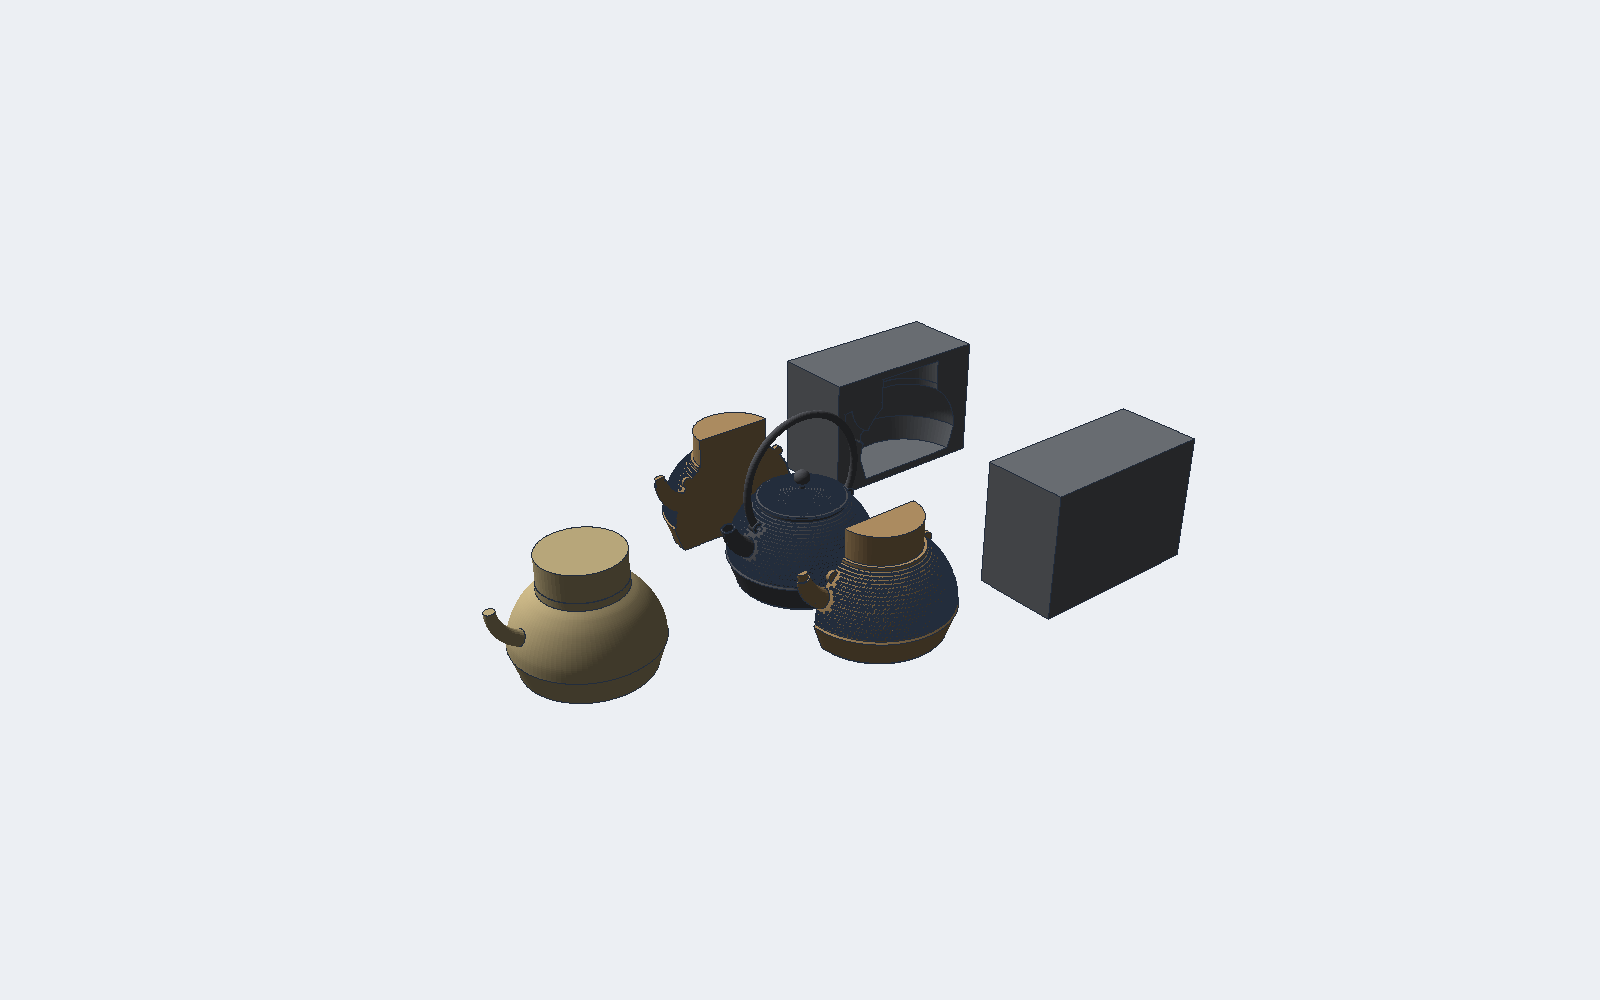
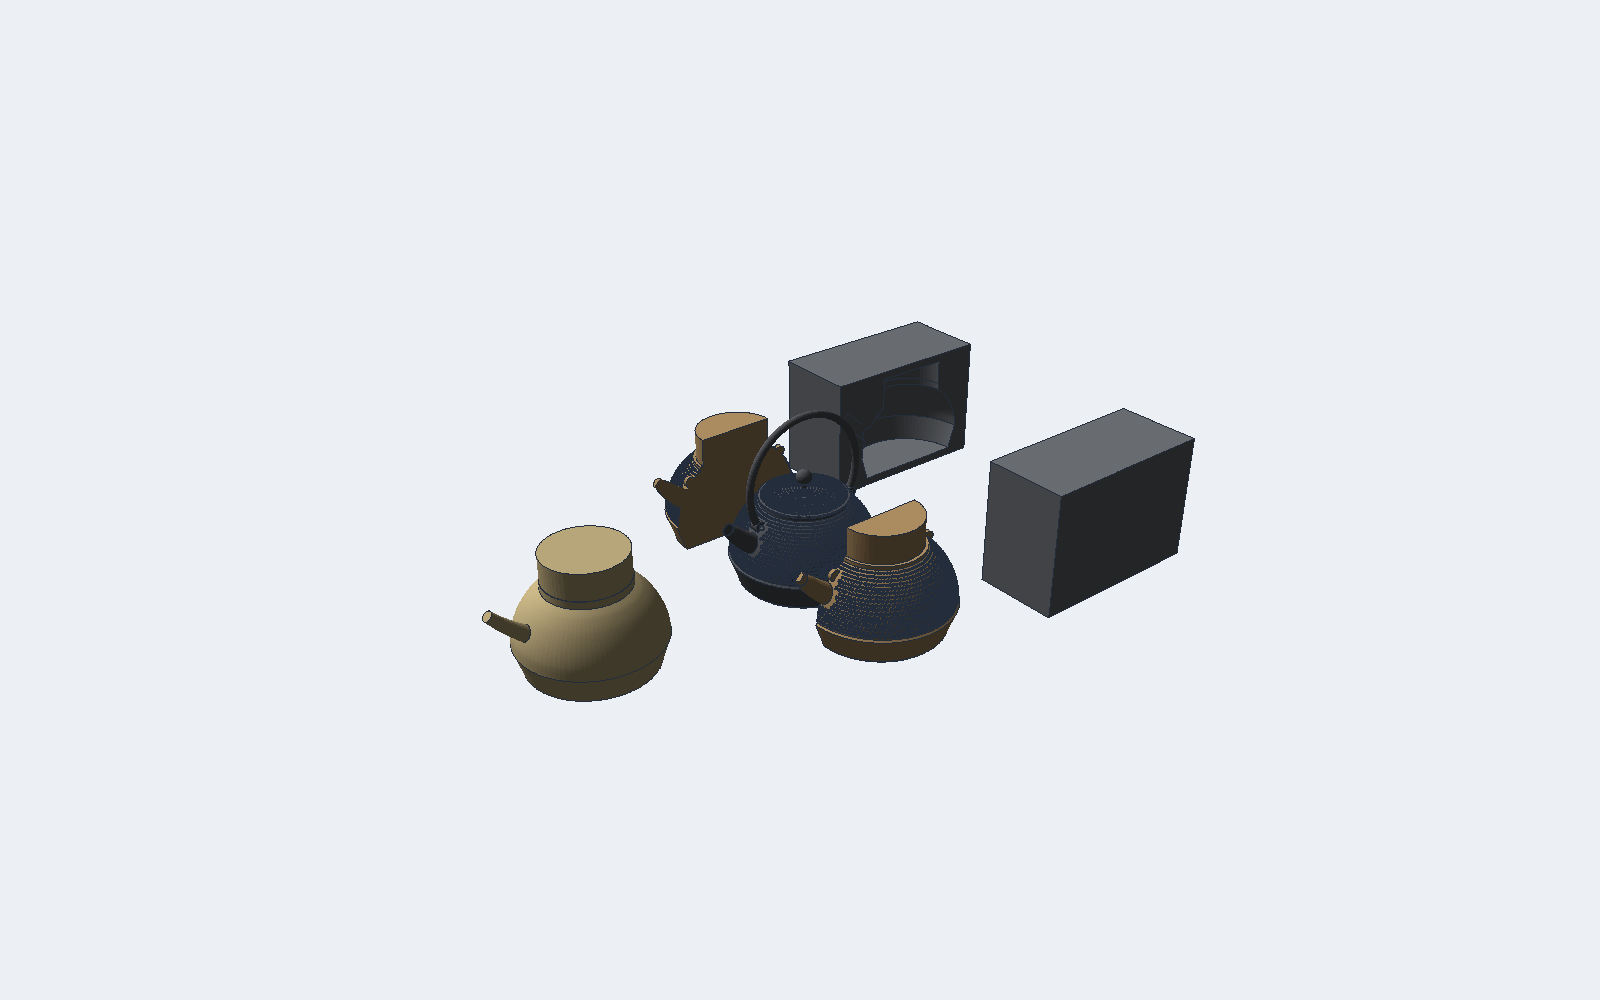
Kettle spout pours cleanly: a 48 degree rise and a thin lip
The spout rose 78 degrees at its tip, far past the 40 to 50 degree rule
in KETTLE.md, so the kettle had to tilt far and the water would run
down the outside. spout_path now takes the tip and its rise
(SPOUT_RISE_DEG = 48) and finds the arc through the start; its end
extensions are in millimetres, since the arc radius changed a lot.

Pipe gains a lip: over the last lip length of the path the outside
eases to the lip diameter, starting tangent to the taper, on a path
refined near the end. The kettle uses 8 mm down to 13.4 mm, a 0.8 mm
edge over the 11.8 mm bore at the tip, and the mold pattern shares the
same spout, so the casting gets the lip too.

Renders of the kettle samples are made again.

Claude-Session: https://claude.ai/code/session_01RS1w5bgEVMMrX9LStXCS5y

diff --git a/crates/anvil-feature/src/features/solid_extra.rs b/crates/anvil-feature/src/features/solid_extra.rs
@@ -98,6 +98,13 @@ pub struct PipeFeature {
     /// Diameter at the far end of the path. `0` keeps `diameter` all along.
     #[serde(default = "zero_expr")]
     pub end_diameter: String,
+    /// Length of a lip at the far end: over this last stretch of the path
+    /// the outside eases down to `lip_diameter`, starting tangent to the
+    /// taper. `0` means no lip. A spout pours cleanly from a thin lip.
+    #[serde(default = "zero_expr")]
+    pub lip_length: String,
+    #[serde(default = "zero_expr")]
+    pub lip_diameter: String,
 }
 
 fn zero_expr() -> String {
@@ -106,8 +113,39 @@ fn zero_expr() -> String {
 
 impl Default for PipeFeature {
     fn default() -> Self {
-        PipeFeature { path: 0, diameter: "4".into(), end_diameter: "0".into() }
+        PipeFeature {
+            path: 0,
+            diameter: "4".into(),
+            end_diameter: "0".into(),
+            lip_length: "0".into(),
+            lip_diameter: "0".into(),
+        }
     }
+}
+
+/// The path with extra points over its last `length`, `n` steps at least,
+/// so a lip there is smooth.
+fn refine_end(path: &[DVec3], length: f64, n: usize) -> Vec<DVec3> {
+    let mut out = vec![path[0]];
+    let total: f64 = path.windows(2).map(|w| (w[1] - w[0]).length()).sum();
+    let start = (total - length).max(0.0);
+    let step = length / n as f64;
+    let mut at = 0.0;
+    for w in path.windows(2) {
+        let seg = (w[1] - w[0]).length();
+        if at + seg > start && seg > step {
+            let k = (seg / step).ceil() as usize;
+            for i in 1..k {
+                let f = i as f64 / k as f64;
+                if at + seg * f > start {
+                    out.push(w[0].lerp(w[1], f));
+                }
+            }
+        }
+        out.push(w[1]);
+        at += seg;
+    }
+    out
 }
 
 #[typetag::serde(name = "pipe")]
@@ -123,6 +161,8 @@ impl Feature for PipeFeature {
             ParamSpec::feature_ref("path", "Path sketch", vec!["sketch"], self.path),
             ParamSpec::length("diameter", "Diameter", &self.diameter),
             ParamSpec::length("end_diameter", "Diameter at end (0 = same)", &self.end_diameter),
+            ParamSpec::length("lip_length", "Lip length (0 = none)", &self.lip_length),
+            ParamSpec::length("lip_diameter", "Lip diameter", &self.lip_diameter),
         ]
     }
     fn set_param(&mut self, name: &str, value: ParamValue) -> Result<(), String> {
@@ -130,6 +170,8 @@ impl Feature for PipeFeature {
             ("path", ParamValue::FeatureRef(i)) => self.path = i,
             ("diameter", ParamValue::Expr(s)) => self.diameter = s,
             ("end_diameter", ParamValue::Expr(s)) => self.end_diameter = s,
+            ("lip_length", ParamValue::Expr(s)) => self.lip_length = s,
+            ("lip_diameter", ParamValue::Expr(s)) => self.lip_diameter = s,
             (n, _) => return Err(format!("unknown parameter {n}")),
         }
         Ok(())
@@ -138,20 +180,40 @@ impl Feature for PipeFeature {
         let paths = ctx.paths_of(self.path)?;
         let r = ctx.eval(&self.diameter)? / 2.0;
         let r_end = ctx.eval(&self.end_diameter)? / 2.0;
+        let lip_len = ctx.eval(&self.lip_length)?;
+        let r_lip = ctx.eval(&self.lip_diameter)? / 2.0;
+        if lip_len > 0.0 && r_lip <= 0.0 {
+            return Err(RegenError::Other("a lip needs a lip diameter above 0".into()));
+        }
         let mut bodies = Vec::new();
         for path in &paths {
+            // A lip needs path points close together near the end.
+            let path = if lip_len > 0.0 { refine_end(path, lip_len, 12) } else { path.clone() };
+            let path = &path;
             let t = (path[1] - path[0]).normalize_or_zero();
             let helper = if t.dot(DVec3::Z).abs() < 0.9 { DVec3::Z } else { DVec3::X };
             let x = helper.cross(t).normalize();
             let plane = Plane { origin: path[0], x_axis: x, y_axis: t.cross(x) };
-            // Taper by arc length from `diameter` to `end_diameter`.
-            let scales: Vec<f64> = if r_end > 0.0 && r > 0.0 {
-                let mut cum = vec![0.0];
-                for w in path.windows(2) {
-                    cum.push(cum.last().unwrap() + (w[1] - w[0]).length());
+            let mut cum = vec![0.0];
+            for w in path.windows(2) {
+                cum.push(cum[cum.len() - 1] + (w[1] - w[0]).length());
+            }
+            let total = cum[cum.len() - 1].max(1e-9);
+            // Radius along the path: the taper from `diameter` to
+            // `end_diameter`, then over the lip a quadratic ease that
+            // starts tangent to the taper and ends at the lip radius.
+            let taper = |c: f64| if r_end > 0.0 { r + (r_end - r) * c / total } else { r };
+            let lip_start = (total - lip_len).max(0.0);
+            let radius = |c: f64| {
+                if lip_len > 0.0 && c > lip_start {
+                    let f = (c - lip_start) / (total - lip_start).max(1e-9);
+                    taper(c) - (taper(total) - r_lip) * f * f
+                } else {
+                    taper(c)
                 }
-                let total = cum.last().copied().unwrap_or(1.0).max(1e-9);
-                cum.iter().map(|c| 1.0 + (r_end / r - 1.0) * c / total).collect()
+            };
+            let scales: Vec<f64> = if r > 0.0 && (r_end > 0.0 || lip_len > 0.0) {
+                cum.iter().map(|&c| radius(c) / r).collect()
             } else {
                 Vec::new()
             };
@@ -502,3 +564,59 @@ inventory::submit! { FeatureDescriptor { id: "import_step", label: "Import STEP"
 inventory::submit! { FeatureDescriptor { id: "split_body", label: "Split Body", tab: "Solid", group: "Modify", tooltip: "Cut a body with a plane", order: 45, create: || Box::new(SplitBodyFeature::default()) } }
 inventory::submit! { FeatureDescriptor { id: "plane_3pt", label: "Plane 3 Points", tab: "Solid", group: "Construct", tooltip: "Plane through three points", order: 2, create: || Box::new(Plane3PointsFeature::default()) } }
 inventory::submit! { FeatureDescriptor { id: "midplane", label: "Midplane", tab: "Solid", group: "Construct", tooltip: "Plane halfway between two planes", order: 3, create: || Box::new(MidplaneFeature::default()) } }
+
+#[cfg(test)]
+mod tests {
+    use super::*;
+    use crate::features::sketch::SketchFeature;
+    use crate::Document;
+
+    /// A 50 mm straight pipe along X, 24 mm tapering to 15 mm.
+    fn pipe(lip_length: &str, lip_diameter: &str) -> (Document, usize) {
+        let mut doc = Document::new("pipe");
+        let mut sk = SketchFeature::on_datum("XY");
+        let a = sk.sketch.add_point(0.0, 0.0);
+        let b = sk.sketch.add_point(50.0, 0.0);
+        sk.sketch.add_line(a, b);
+        doc.add_feature(Box::new(sk));
+        let i = doc.add_feature(Box::new(PipeFeature {
+            path: 0,
+            diameter: "24".into(),
+            end_diameter: "15".into(),
+            lip_length: lip_length.into(),
+            lip_diameter: lip_diameter.into(),
+        }));
+        (doc, i)
+    }
+
+    #[test]
+    fn a_lip_thins_only_the_end_of_the_pipe() {
+        let (plain, i) = pipe("0", "0");
+        let (lipped, j) = pipe("8", "13.4");
+        let body = |d: &Document, k: usize| d.features[k].output.as_ref().unwrap().bodies[0].clone();
+        let (p, l) = (body(&plain, i), body(&lipped, j));
+        assert!(lipped.features[j].error.is_none(), "{:?}", lipped.features[j].error);
+        // The ring at the far end has the lip radius.
+        let end_r = |s: &anvil_kernel::Solid| {
+            s.vertices
+                .values()
+                .filter(|v| (v.pos.x - 50.0).abs() < 1e-6)
+                .map(|v| v.pos.y.hypot(v.pos.z))
+                .fold(0.0, f64::max)
+        };
+        assert!((end_r(&p) - 7.5).abs() < 1e-6, "{}", end_r(&p));
+        assert!((end_r(&l) - 6.7).abs() < 1e-6, "{}", end_r(&l));
+        // Before the lip the pipe is unchanged; the lip takes a little off.
+        let before = |s: &anvil_kernel::Solid| {
+            s.vertices
+                .values()
+                .filter(|v| (v.pos.x - 30.0).abs() < 1.0)
+                .map(|v| v.pos.y.hypot(v.pos.z))
+                .fold(0.0, f64::max)
+        };
+        assert!((before(&p) - before(&l)).abs() < 1e-9);
+        let (vp, vl) = (p.volume(), l.volume());
+        assert!(vl < vp && vl > vp * 0.97, "{vl} vs {vp}");
+        assert!(l.open_edges().is_empty());
+    }
+}

diff --git a/crates/anvil-io/src/kettle.rs b/crates/anvil-io/src/kettle.rs
@@ -81,40 +81,35 @@ fn dome_surface(body: &Solid, z_lo: f64, z_hi: f64) -> Option<u32> {
         .map(|(id, _)| id)
 }
 
-fn circumcentre(a: DVec2, b: DVec2, c: DVec2) -> DVec2 {
-    let d = 2.0 * (a.x * (b.y - c.y) + b.x * (c.y - a.y) + c.x * (a.y - b.y));
-    let ux = ((a.x * a.x + a.y * a.y) * (b.y - c.y)
-        + (b.x * b.x + b.y * b.y) * (c.y - a.y)
-        + (c.x * c.x + c.y * c.y) * (a.y - b.y))
-        / d;
-    let uy = ((a.x * a.x + a.y * a.y) * (c.x - b.x)
-        + (b.x * b.x + b.y * b.y) * (a.x - c.x)
-        + (c.x * c.x + c.y * c.y) * (b.x - a.x))
-        / d;
-    DVec2::new(ux, uy)
-}
-
-/// Arc sketch on the XZ plane along the spout centreline, from angle
-/// `a0` to `a1` (radians) about the spout circle, clockwise from the body
-/// to the tip. `extend` widens the arc at both ends by that many radians.
+/// Arc sketch on the XZ plane along the spout centreline, from inside the
+/// wall to the tip. The arc is set by its two ends and the rise of the
+/// spout at the tip: 40 to 50 degrees pours cleanly, a steeper tip makes
+/// the kettle tilt far and the water run down the outside. The arc is
+/// longer by `extend_start` and `extend_end` millimetres at its ends.
 fn spout_path(extend_start: f64, extend_end: f64) -> SketchFeature {
-    // Three points the spout centreline passes through: inside the wall,
-    // mid, tip (r, z in mm). The centre of the arc lies above and left.
+    // Start inside the wall and the tip, as (r, z) in mm.
     let s = DVec2::new(60.0, 56.0);
-    let m = DVec2::new(80.0, 66.0);
-    let t = DVec2::new(94.0, 90.0);
-    let c = circumcentre(s, m, t);
-    let r = (s - c).length();
+    let t = DVec2::new(97.0, 88.0);
+    let rise = SPOUT_RISE_DEG.to_radians();
+    // The centre lies on the normal at the tip, to the left of travel, at
+    // the distance that makes the arc pass through the start too.
+    let n = DVec2::new(-rise.sin(), rise.cos());
+    let k = -(t - s).length_squared() / (2.0 * (t - s).dot(n));
+    let c = t + n * k;
+    let r = k.abs();
     let a_s = (s - c).y.atan2((s - c).x);
     let a_t = (t - c).y.atan2((t - c).x);
     // Counter-clockwise from the start to the tip is the short way round.
-    let a_start = a_s - extend_start;
-    let a_end = a_t + extend_end;
+    let a_start = a_s - extend_start / r;
+    let a_end = a_t + extend_end / r;
     let p = |a: f64| c + DVec2::new(r * a.cos(), r * a.sin());
     let mut sk = SketchFeature::on_datum("XZ");
     sk.sketch.add_arc_center(c, p(a_start), p(a_end));
     sk
 }
+
+/// Rise of the spout at its tip, in degrees above horizontal.
+pub const SPOUT_RISE_DEG: f64 = 48.0;
 
 /// The kettle: body, bail, and lid as three bodies.
 pub fn kettle() -> Document {
@@ -127,6 +122,10 @@ pub fn kettle() -> Document {
         ("spout_tip", "15"),
         ("bore_d", "18"),
         ("bore_tip", "11"),
+        // The last lip_len mm of the spout narrow to a thin lip, 0.8 mm
+        // over the bore at the tip, so the water leaves cleanly.
+        ("lip_len", "8"),
+        ("lip_d", "13.4"),
         ("bail_d", "8"),
         ("lug_hole", "4.5"),
         ("segments", "96"),
@@ -170,7 +169,13 @@ pub fn kettle() -> Document {
         .unwrap_or(0);
     // 2, 3, 4: spout path, tapered pipe, join.
     doc.add_feature(Box::new(spout_path(0.0, 0.0)));
-    doc.add_feature(Box::new(PipeFeature { path: 2, diameter: "spout_d".into(), end_diameter: "spout_tip".into() }));
+    doc.add_feature(Box::new(PipeFeature {
+        path: 2,
+        diameter: "spout_d".into(),
+        end_diameter: "spout_tip".into(),
+        lip_length: "lip_len".into(),
+        lip_diameter: "lip_d".into(),
+    }));
     doc.add_feature(Box::new(CombineFeature { body: 1, tool: 3, op: "join".into() }));
     // 5, 6, 7: a wedge of the cavity, 0.3 mm inside the wall and 40 degrees
     // wide around the spout, removes the spout stub inside the kettle. A
@@ -202,8 +207,13 @@ pub fn kettle() -> Document {
     }));
     doc.add_feature(Box::new(CombineFeature { body: 4, tool: 6, op: "cut".into() }));
     // 8, 9, 10: bore through the wall and out of the tip.
-    doc.add_feature(Box::new(spout_path(0.12, 0.16)));
-    doc.add_feature(Box::new(PipeFeature { path: 8, diameter: "bore_d".into(), end_diameter: "bore_tip".into() }));
+    doc.add_feature(Box::new(spout_path(5.3, 7.0)));
+    doc.add_feature(Box::new(PipeFeature {
+        path: 8,
+        diameter: "bore_d".into(),
+        end_diameter: "bore_tip".into(),
+        ..Default::default()
+    }));
     doc.add_feature(Box::new(CombineFeature { body: 7, tool: 9, op: "cut".into() }));
     // 11, 12: lugs for the bail, two bosses on the shoulder along Y.
     let mut lugs = SketchFeature::on_plane(Plane { origin: DVec3::new(0.0, 5.0, 0.0), ..Plane::XZ });
@@ -436,8 +446,13 @@ fn mold_pattern() -> TimedDoc {
     }));
     // 28 to 31: core = cavity + print + spout bore (its end past the tip is the print).
     doc.add_feature(Box::new(CombineFeature { body: 25, tool: 27, op: "join".into() }));
-    doc.add_feature(Box::new(spout_path(0.12, 0.16)));
-    doc.add_feature(Box::new(PipeFeature { path: 29, diameter: "bore_d".into(), end_diameter: "bore_tip".into() }));
+    doc.add_feature(Box::new(spout_path(5.3, 7.0)));
+    doc.add_feature(Box::new(PipeFeature {
+        path: 29,
+        diameter: "bore_d".into(),
+        end_diameter: "bore_tip".into(),
+        ..Default::default()
+    }));
     doc.add_feature(Box::new(CombineFeature { body: 28, tool: 30, op: "join".into() }));
     // 32, 33: the outer shape as a solid, the start of the pattern.
     let mut outer_sk = SketchFeature::on_datum("XZ");
@@ -608,7 +623,12 @@ pub fn kettle_match_plate() -> Document {
     let b = riser_path.sketch.add_point(110.0, 25.0);
     riser_path.sketch.add_line(a, b);
     doc.add_feature(Box::new(riser_path));
-    doc.add_feature(Box::new(PipeFeature { path: 43, diameter: "36".into(), end_diameter: "0".into() }));
+    doc.add_feature(Box::new(PipeFeature {
+        path: 43,
+        diameter: "36".into(),
+        end_diameter: "0".into(),
+        ..Default::default()
+    }));
     // 45 to 48: the gating joined onto the pattern.
     doc.add_feature(Box::new(CombineFeature { body: 39, tool: 40, op: "join".into() }));
     doc.add_feature(Box::new(CombineFeature { body: 45, tool: 41, op: "join".into() }));
@@ -642,7 +662,12 @@ pub fn kettle_match_plate() -> Document {
     let b = sprue_path.sketch.add_point(-135.0, 126.0);
     sprue_path.sketch.add_line(a, b);
     doc.add_feature(Box::new(sprue_path));
-    doc.add_feature(Box::new(PipeFeature { path: 54, diameter: "12".into(), end_diameter: "18".into() }));
+    doc.add_feature(Box::new(PipeFeature {
+        path: 54,
+        diameter: "12".into(),
+        end_diameter: "18".into(),
+        ..Default::default()
+    }));
     // 56 to 59: the plate with everything on it, set beside the kettle.
     doc.set_expression("plate_y", "200").ok();
     for body in [51, 52, 53, 55] {
@@ -732,6 +757,7 @@ mod tests {
             assert!(over < 400, "{over} edges shared by more than two faces");
         }
         let bb = bodies[0].bounds();
+        eprintln!("spout tip reaches x = {:.1}, body {:.0} mm3", bb.max.x, body);
         assert!(bb.max.x > 98.0 && bb.max.x < 104.0, "spout tip reaches x = {}", bb.max.x);
         assert!(secs < 60.0, "kettle took {secs:.1} s");
     }

diff --git a/docs/KETTLE.md b/docs/KETTLE.md
@@ -25,8 +25,20 @@ the mold. Stage 5 is the simulation.
 
 Spout: the shape must pour without dripping. The rules of thumb are a
 sharp thin lip, a bore that narrows toward the tip, an outlet above the
-full water level, and a rise of 40 to 50 degrees. The spout is parametric
-so these can be tuned, and stage 5 can test pouring later.
+full water level, and a rise of 40 to 50 degrees. The sample meets them:
+
+* **Rise:** 48 degrees at the tip (`SPOUT_RISE_DEG`). The first spout rose
+  78 degrees at the tip, which makes the kettle tilt far before it pours
+  and lets the water run down the outside.
+* **Lip:** over the last 8 mm (`lip_len`) the outside eases from the
+  taper down to 13.4 mm (`lip_d`), which leaves a 0.8 mm edge over the
+  11.8 mm bore at the tip. The Pipe feature does this with its lip
+  length and lip diameter, so the mold pattern gets the same lip.
+* **Bore:** narrows from 18 mm to 11 mm.
+* **Outlet:** the tip sits at z = 88 mm, above the ridge and 6 mm under
+  the collar, so the kettle fills to just under the outlet.
+
+Stage 5 can test the pouring later.
 
 ## Design decisions
 
@@ -68,8 +80,8 @@ against the full mesh, so the result is still exact.
 Examples > Casting samples > Kettle, or `anvil_io::kettle::kettle()`. The document
 builds in about 4 seconds on a workstation and renders in under a
 second. Three bodies: body 208 cm3 (1.50 kg in cast iron), bail 15 cm3,
-lid 27 cm3. The spout tip reaches x = 101 mm, so the kettle is 181 mm
-wide, the bail apex is at 189 mm.
+lid 27 cm3. The spout tip reaches x = 101.8 mm, so the kettle is about
+182 mm wide, the bail apex is at 189 mm.
 
 ![Kettle](kettle.png)
 
@@ -186,7 +198,6 @@ docs/research/casting_simulation.md and need one calibration pour.
   edges shared by more than two faces, the lid about 100. There are no
   open edges, so slicers accept the meshes. ADR 0001 (a tolerant kernel)
   is the real fix.
-* The spout is a plain tapered tube. The lip is not thinned yet.
 * The match plate layout is a first cut: the gate and riser sizes come
   from the textbook ratios of the casting check, not from a flow run.
 * An edit reruns the edited feature and everything after it. Put the
@@ -195,6 +206,8 @@ docs/research/casting_simulation.md and need one calibration pour.
 
 ## Progress log
 
+* 2026-09-25: spout re-aimed to a 48 degree rise with a thin lip (Pipe
+  lip length and lip diameter).
 * 2026-09-25: match plate sample with the gating split between the
   halves; plane references let Split Body use a picked face.
 * 2026-09-16: plan written. Reference photos reviewed.

diff --git a/docs/USING_ANVIL.md b/docs/USING_ANVIL.md
@@ -372,6 +372,11 @@ Pipe has a second value, Diameter at end. Leave it at 0 for one
 diameter along the whole path. Set it for a spout that narrows toward
 the tip: the section scales linearly by arc length.
 
+Lip length and Lip diameter give the far end a thin lip. Over the last
+Lip length of the path, the outside eases down to Lip diameter, starting
+tangent to the taper. A spout with a thin, sharp lip pours without
+dripping. Leave Lip length at 0 for no lip.
+
 ## Kettle sample
 
 Examples > Kettle loads a cast iron kettle: body, bail, and lid as
